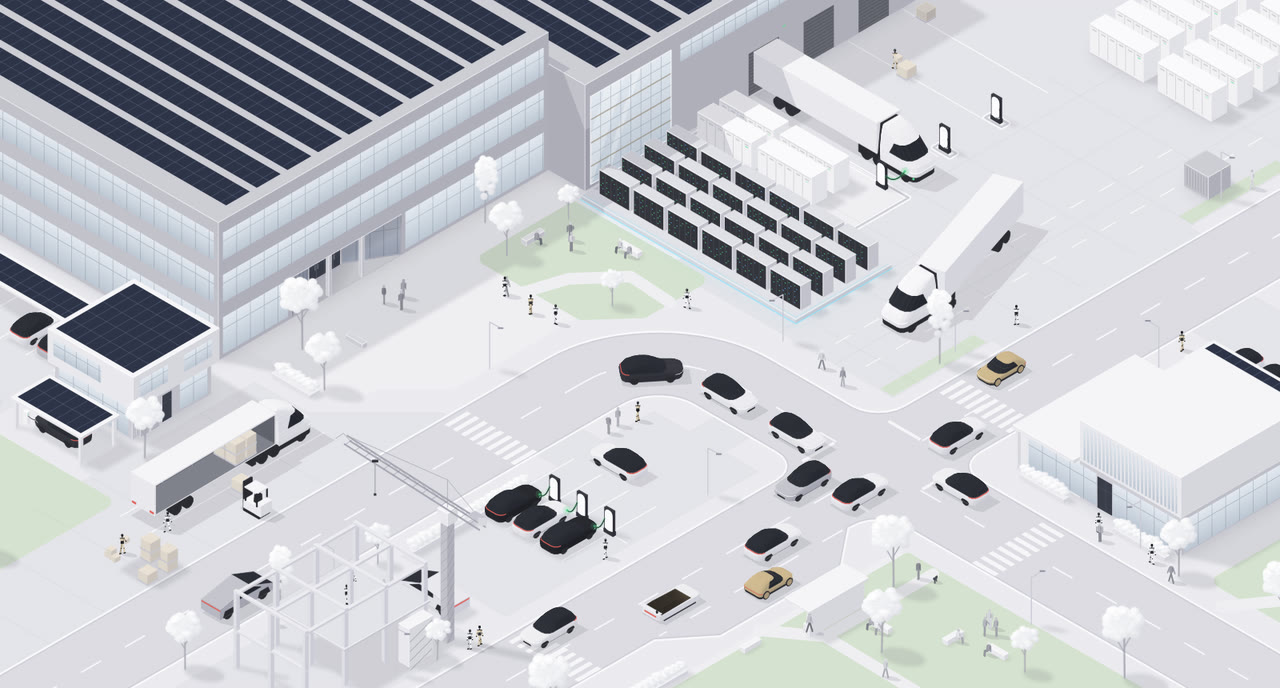
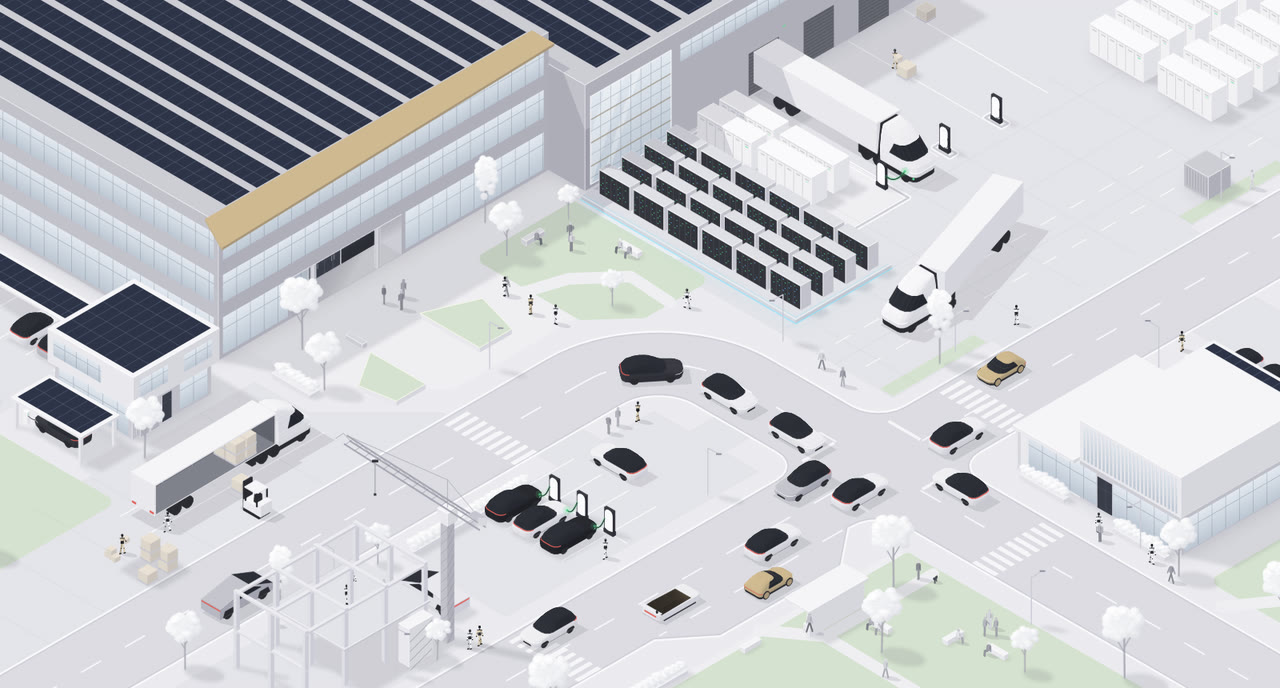
Give the factory's front Giga Berlin's entrance, canopy and plaza
Entrance: the V-shaped glass recess becomes a portico like Giga Berlin's.
Its back wall runs straight across: lit glass on the left, the doors in the
middle where people already come and go, and a dark feature wall on the
right, with the return wall at that end. Its two square pillars move out to
either side of the way in, clear of the door path.

Neon: with `isBranded`, the dark wall carries a neon signature in the
scene's cyan, glowing at night, set low on the wall where it shows under
the floor above. Like the lettering, it lives in world/lettering.ts, and
AGENTS.md, the README and the prop's doc now name it as part of the
exception.

Canopy: a thin bronze roof canopy runs along the top of the facade, over
the roof's edge and out past the front, flaring to a sharp point at the
plaza's corner (world/plaza.ts).

Plaza: two angular planters stand either side of the walk from the door,
with LED strips along their top edges, a fine bright line by day and a warm
glowing one at night. They keep clear of every walkway, the walkers'
offset, the chatting group and the bench. Over 15 simulated minutes no
walker came within 1.1 m of them.

Palette: `featureWall` for the dark wall.

Docs: docs/engine.md describes plaza.ts and the new entrance. README
previews re-recorded.

Checks: typecheck, tests, check:components and the build pass. check:sim:
0 collisions, 0 vehicles touching people.

Claude-Session: https://claude.ai/code/session_012ySDiovrfsgi18gJzxxVM6

diff --git a/src/engine/world/entrance.ts b/src/engine/world/entrance.ts
@@ -1,6 +1,6 @@
-// The factory's main entrance on the plaza: the ground floor steps back in a V under the flush facade above, its
-// glass walls angling in like an arrowhead to a dark door at the tip, and two pillars stand in its mouth, in line with
-// the door's jambs.
+// The factory's main entrance on the plaza, after Giga Berlin's: the ground floor steps back into a portico under the
+// flush facade above, its back wall straight across (lit glass, the doors in the middle, a dark feature wall), and two
+// square pillars stand in its mouth, either side of the way in.
 //
 // The recess is drawn as part of the factory's +x face, clipped to the opening, so it needs no sort item of its own.
 // People come and go at the walkway's door node just in front of the door, which is inside the factory's box: the
@@ -8,10 +8,11 @@
 // hide whoever walks behind them, and clip to the same opening so the floor above covers their tops.
 
 import { sx, sy } from '../core';
-import { box, edgeColor, onFaceX, onWall, type Ctx, type R } from '../draw';
+import { box, edgeColor, onFaceX, onFaceY, type Ctx, type R } from '../draw';
 import { ribbons, windowGlow, type Band } from '../details';
 import type { Palette } from '../palette';
 import { FnItem } from '../statics';
+import { drawNeon, type Branding } from './lettering';
 
 /**
  * The opening in the factory's face at x, from y0 to y1 (lined up with the mullions of the floors above), its height
@@ -36,7 +37,7 @@ function clipToOpening(ctx: Ctx) {
 }
 
 /** The entrance, drawn over the factory's +x face: call it from the factory's decoration. */
-export function drawEntrance(r: R, pal: Palette, edge: string) {
+export function drawEntrance(r: R, pal: Palette, edge: string, branding: Branding) {
   const ctx = r.ctx;
   const { x, y0, y1, h } = ENTRANCE;
   const bx = x - ENTRANCE.depth, d0 = MID - ENTRANCE.door / 2, d1 = MID + ENTRANCE.door / 2;
@@ -59,22 +60,28 @@ export function drawEntrance(r: R, pal: Palette, edge: string) {
     ctx.fillStyle = 'rgba(255, 186, 104, 0.14)';
     ctx.fill();
   }
-  // the two glass walls: the one on the right faces the camera, the left one is seen edge-on and a shade darker
+  // the lobby's back wall, straight across as at Giga Berlin: lit glass on the left, the doors in the middle and a dark
+  // feature wall on the right (with the neon signature when branded), and the return wall at its right end
   const bands: Band[] = [{ top: 0.12, bot: h - 0.12, every: 1.1 }];
-  const pane = (c: Ctx, w: number, dim: number) => {
+  onFaceX(r, bx, d1, y1, h, (c, w) => {
     c.fillStyle = pal.white.right;
     c.fillRect(0, 0, w, h);
     bands[0].spans = [[0.1, w - 0.1]];
     ribbons(r, pal, c, w, bands);
     windowGlow(r, c, w, bands);
-    if (!r.night) {
-      c.fillStyle = pal.faceShadow;
-      for (let i = 0; i < dim; i++) c.fillRect(0, 0, w, h);
-    }
-  };
-  onWall(r, bx, d0, x, y0, h, (c, w) => pane(c, w, 2));
-  onWall(r, x, y1, bx, d1, h, (c, w) => pane(c, w, 3));
-  // the door at the tip: dark glass in two pairs of leaves with pull handles, under a transom
+  });
+  onFaceX(r, bx, y0, d0, h, (c, w) => {
+    c.fillStyle = pal.featureWall;
+    c.fillRect(0, 0, w, h);
+    if (branding.isOn) drawNeon(r, pal, c, w, h);
+  });
+  onFaceY(r, bx, x, y0, h, (c, w) => {
+    c.fillStyle = pal.white.left;
+    c.fillRect(0, 0, w, h);
+    c.fillStyle = pal.faceShadow;
+    c.fillRect(0, 0, w, h);
+  });
+  // the doors: dark glass in two pairs of leaves with pull handles, under a transom
   onFaceX(r, bx, d0, d1, h, (c, w) => {
     c.fillStyle = pal.white.right;
     c.fillRect(0, 0, w, h);
@@ -117,11 +124,11 @@ export function drawEntrance(r: R, pal: Palette, edge: string) {
   ctx.stroke();
 }
 
-/** The two square pillars in the entrance's mouth, carrying the floor above, in line with the door's jambs. */
+/** The two square pillars in the entrance's mouth, carrying the floor above, either side of the way in. */
 export function entrancePillars(pal: Palette, edge: string) {
-  const { x, h, door } = ENTRANCE;
+  const { x, h } = ENTRANCE;
   const s = 0.15;
-  return [MID - door / 2, MID + door / 2].map((y) =>
+  return [MID - 3.5, MID + 3.5].map((y) =>
     new FnItem(x - 2 * s, y - s, 0, x, y + s, h, (r) => {
       r.ctx.save();
       clipToOpening(r.ctx);

diff --git a/src/engine/world/plaza.ts b/src/engine/world/plaza.ts
@@ -1,0 +1,68 @@
+// The factory's front, after Giga Berlin's: a thin bronze roof canopy along the top of the facade,
+// flaring out to a sharp point at the plaza's corner, and two angular planters on the plaza with LED strips along
+// their top edges that glow warm at night. The planters stand clear of every walkway (and the walkers' offset), the
+// chatting group and the bench (walkways.ts, streetLife.ts).
+
+import { C } from '../core';
+import type { R } from '../draw';
+import { MeshBuilder, drawMesh } from '../mesh';
+import type { Palette } from '../palette';
+import { FnItem } from '../statics';
+
+/** the canopy's plan, counter-clockwise (x, y): over the roof's edge, out past the facade (x 26), widening to a point */
+const CANOPY = [[25.2, 37], [27.6, 37], [28.8, 74.4], [25.2, 72.6]];
+const CANOPY_Z = [13.0, 13.25];
+/** the planters' plans, counter-clockwise (x, y), and their height */
+const PLANTERS = [
+  [[33.0, 57.0], [35.0, 52.2], [39.5, 53.5], [39.5, 57.0]],
+  [[34.0, 63.4], [40.0, 63.4], [40.0, 66.6], [36.5, 67.2]],
+];
+const PLANTER_H = 0.45;
+
+const bounds = (pts: number[][]) => [Math.min(...pts.map((p) => p[0])), Math.min(...pts.map((p) => p[1])), Math.max(...pts.map((p) => p[0])), Math.max(...pts.map((p) => p[1]))];
+
+/** A prism over a plan, from z0 to z1: its sides take material slot 0 and its top slot 1. */
+function prism(plan: number[][], z0: number, z1: number) {
+  const m = new MeshBuilder();
+  m.frustum(plan, z0, plan, z1, 0, 1);
+  return m.build();
+}
+
+/** The canopy and the planters, as static items. */
+export function factoryFront(pal: Palette) {
+  const canopy = prism(CANOPY, CANOPY_Z[0], CANOPY_Z[1]);
+  const [cx0, cy0, cx1, cy1] = bounds(CANOPY);
+  const items = [
+    // bronze all over, as at Giga Berlin
+    new FnItem(cx0, cy0, CANOPY_Z[0], cx1, cy1, CANOPY_Z[1], (r) => drawMesh(r, canopy, 0, 0, 0, 1, 0, [pal.gold, pal.gold])).still(),
+  ];
+  for (const plan of PLANTERS) {
+    const mesh = prism(plan, 0, PLANTER_H);
+    const [x0, y0, x1, y1] = bounds(plan);
+    items.push(
+      new FnItem(x0, y0, 0, x1, y1, PLANTER_H, (r) => {
+        drawMesh(r, mesh, 0, 0, 0, 1, 0, [pal.white, pal.lawn]);
+        ledStrip(r, pal, plan, PLANTER_H);
+      }).still(),
+    );
+  }
+  return items;
+}
+
+/** The LED strip round a planter's top edge: a fine bright line by day, a warm glowing one at night. */
+function ledStrip(r: R, pal: Palette, plan: number[][], z: number) {
+  const ctx = r.ctx;
+  ctx.save();
+  ctx.beginPath();
+  plan.forEach(([x, y], i) => (i ? ctx.lineTo((x - y) * C, (x + y) * 0.5 - z) : ctx.moveTo((x - y) * C, (x + y) * 0.5 - z)));
+  ctx.closePath();
+  ctx.lineJoin = 'round';
+  ctx.lineWidth = 0.07;
+  if (r.night) {
+    ctx.strokeStyle = pal.ledWarm;
+    ctx.shadowColor = pal.ledWarm;
+    ctx.shadowBlur = r.scale * 0.45;
+  } else ctx.strokeStyle = 'rgba(255, 252, 240, 0.9)';
+  ctx.stroke();
+  ctx.restore();
+}

diff --git a/src/engine/world/lettering.ts b/src/engine/world/lettering.ts
@@ -1,6 +1,7 @@
-// The opt-in lettering on the factory's front (the `isBranded` prop): the scene otherwise shows no text or brand
-// marks. Five wide-set letters on the panel band over the ribbon window above the main entrance, drawn as simple
-// geometric strokes (no font), dark on the light clay by day and glowing white at night.
+// The opt-in branding on the factory (the `isBranded` prop): the scene otherwise shows no text or brand marks. Five
+// wide-set letters on the panel band over the ribbon window above the main entrance, drawn as simple geometric
+// strokes (no font), dark on the light clay by day and glowing white at night; and a neon signature on the dark wall
+// inside the entrance.
 
 import type { Ctx, R } from '../draw';
 import type { Palette } from '../palette';
@@ -45,5 +46,29 @@ export function drawLettering(r: R, pal: Palette, ctx: Ctx, mid: number, top: nu
     const u0 = mid - span / 2 + i * (W + GAP);
     for (const [u, v, w, h] of glyph) ctx.fillRect(u0 + u, top + v, w, h);
   });
+  ctx.restore();
+}
+
+/**
+ * The neon signature on the dark wall in the entrance, as points (u, v) in shares of the wall's width and height: low
+ * on the wall, where it shows under the floor above.
+ */
+const NEON = [
+  [0.1, 0.8], [0.16, 0.64], [0.2, 0.78], [0.24, 0.84], [0.3, 0.67], [0.34, 0.78], [0.4, 0.69], [0.46, 0.8],
+  [0.52, 0.65], [0.56, 0.78], [0.62, 0.7], [0.7, 0.72], [0.76, 0.64], [0.8, 0.8], [0.86, 0.7], [0.9, 0.67],
+];
+
+/** The neon signature, on a wall of width `w` and height `h` (in the wall's own frame): cyan, glowing at night. */
+export function drawNeon(r: R, pal: Palette, ctx: Ctx, w: number, h: number) {
+  ctx.save();
+  ctx.beginPath();
+  NEON.forEach(([u, v], i) => (i ? ctx.lineTo(u * w, v * h) : ctx.moveTo(u * w, v * h)));
+  ctx.lineCap = 'round';
+  ctx.lineJoin = 'round';
+  ctx.strokeStyle = pal.glow;
+  ctx.lineWidth = 0.09;
+  ctx.shadowColor = pal.glow;
+  ctx.shadowBlur = r.scale * (r.night ? 0.4 : 0.15);
+  ctx.stroke();
   ctx.restore();
 }

diff --git a/src/engine/world/buildings.ts b/src/engine/world/buildings.ts
@@ -12,6 +12,7 @@ import { MESH } from '../traffic/meshes';
 import { charger } from './chargers';
 import { drawEntrance, entrancePillars } from './entrance';
 import { drawLettering, type Branding } from './lettering';
+import { factoryFront } from './plaza';
 import { Crane } from '../activities/crane';
 import { Looper } from '../activities/looper';
 import type { TruckYard } from '../activities/truckYard';
@@ -40,12 +41,12 @@ export function factory(env: Env, edge: string, yard: TruckYard, branding: Brand
       windowsX(r, pal, 26, 36, 72, 13, factoryBandsX);
       windowsY(r, pal, -40, 26, 72, 13, factoryBandsY);
       solarRoof(r, pal, -40, 36, 26, 72, 13, 1.2, 2.6);
-      drawEntrance(r, pal, edge);
+      drawEntrance(r, pal, edge, branding);
       // the opt-in lettering on the panel band over the ribbon window above the entrance (u 8 to 20 on this face)
       if (branding.isOn) onFaceX(r, 26, 36, 72, 13, (ctx) => drawLettering(r, pal, ctx, 14, 3.9));
     }),
   );
-  S.push(...entrancePillars(pal, edge));
+  S.push(...entrancePillars(pal, edge), ...factoryFront(pal));
 
   // dock wing with roll-up doors and a tall atrium window above the compute platform
   const dockDoors = [...yard.docks.map((d) => d.y), yard.bay.y];

diff --git a/src/engine/palette.ts b/src/engine/palette.ts
@@ -43,6 +43,8 @@ export interface Palette {
   dockDoor: string;
   /** the opt-in lettering on the factory's front (world/lettering.ts), and its glow at night */
   sign: string;
+  /** the dark feature wall in the factory's entrance */
+  featureWall: string;
   signGlow: string;
   glow: string;
   led: string;
@@ -116,6 +118,7 @@ export function lightPalette(): Palette {
     solarFrame: '#e9e9ee',
     dockDoor: '#5d5f68',
     sign: '#3a3c43',
+    featureWall: '#2c2e35',
     signGlow: 'rgba(0, 0, 0, 0)',
     glow: '#7fe3ff',
     led: '#59e08f',
@@ -183,6 +186,7 @@ export function darkPalette(): Palette {
     solarFrame: '#3a3c44',
     dockDoor: '#121317',
     sign: '#f2f5ff',
+    featureWall: '#16171b',
     signGlow: 'rgba(205, 225, 255, 0.9)',
     glow: '#6fdcff',
     led: '#59e08f',

diff --git a/src/LivingCity/LivingCity.tsx b/src/LivingCity/LivingCity.tsx
@@ -33,8 +33,8 @@ export interface LivingCityProps {
   /** Keep moving even when the visitor asks for reduced motion (by default the scene then holds still). */
   isReducedMotionIgnored?: boolean;
   /**
-   * Letter the factory's front over its main entrance, as at Giga Berlin. Off by default: the scene otherwise shows
-   * no text or brand marks.
+   * Letter the factory's front over its main entrance and light a neon signature inside it, as at Giga Berlin. Off
+   * by default: the scene otherwise shows no text or brand marks.
    */
   isBranded?: boolean;
   /** Accessible description; the scene is decorative when omitted. */

diff --git a/docs/engine.md b/docs/engine.md
@@ -35,13 +35,14 @@ Every file stays under 300 lines; split by responsibility when one grows past th
 
 - `world/` the layout. `world.ts` builds it all in a fixed order (everything draws from one seeded random stream, so
   moving a call changes the scene): `roads.ts` zones and through traffic, `buildings.ts` the factory (with
-  `lettering.ts`, its opt-in lettering), dock wing, pavilion, home and construction site, `streetLife.ts` trees,
-  lamps, benches, the pocket park and people standing about, `walkways.ts` the walkway graph, `groundPlan.ts` the
-  cached ground layer, `chargers.ts` the yard's chargers (posts and glowing cable in `../charging.ts`),
-  `entrance.ts` the factory's main entrance (a V-shaped recess drawn as part of the face it is cut into, clipped to
-  the opening so it needs no sort item, and the pillars in its mouth), `outskirts.ts` what lies beyond the classic
-  frame for wide views (factory wing, staff car park, second compute platform, Megapack field, charging hub, staff
-  park).
+  `plaza.ts`, its Giga Berlin-style front: the bronze roof canopy and the plaza's LED-edged planters, and
+  `lettering.ts`, its opt-in lettering and neon), dock wing, pavilion, home and construction site, `streetLife.ts`
+  trees, lamps, benches, the pocket park and people standing about, `walkways.ts` the walkway graph, `groundPlan.ts`
+  the cached ground layer, `chargers.ts` the yard's chargers (posts and glowing cable in `../charging.ts`),
+  `entrance.ts` the factory's main entrance (a portico with a straight back wall, drawn as part of the face it is
+  cut into, clipped to the opening so it needs no sort item, and the pillars in its mouth), `outskirts.ts` what lies
+  beyond the classic frame for wide views (factory wing, staff car park, second compute platform, Megapack field,
+  charging hub, staff park).
 - `blocks.ts` builders used in both: `rackPlatform` (server racks with the glowing edge) and `megapacks`;
   `details.ts` windows, glass, solar roofs.
 - `activities/` the scripted scenes, one per file (truck yard, loading bay, charging lot, robotaxi stop, crane, dog

diff --git a/AGENTS.md b/AGENTS.md
@@ -26,8 +26,9 @@ A self-running isometric factory town for React: one `<canvas>`, no text, no dep
   `Name/Name.test.tsx`.
 - No `useEffect` / `useLayoutEffect` anywhere (`check:components` fails on them). Use a callback ref, an event
   handler or `useSyncExternalStore`.
-- The scene shows no text, logos or brand marks. The one exception is the factory's lettering behind the opt-in
-  `isBranded` prop (off by default; the demo site turns it on), all of it in `src/engine/world/lettering.ts`.
+- The scene shows no text, logos or brand marks. The one exception is the factory's lettering and the neon signature
+  in its entrance, behind the opt-in `isBranded` prop (off by default; the demo site turns it on), all of it in
+  `src/engine/world/lettering.ts`.
 - Commits are authored by Alberto (the repo's git config) with a `Co-Authored-By:` trailer for the AI agent that
   worked on it. Subject line in the imperative, then a body that says what changed and why, area by area.
 - Push to `main` only when asked; it redeploys the website.

diff --git a/README.md b/README.md
@@ -129,7 +129,7 @@ it a height, or put it in a sized box, and it fills that instead:
 | `isPaused` | `false` | Freeze on the current frame |
 | `maxDpr` | `2` | Cap on the device pixel ratio. Lower it to trade sharpness for speed |
 | `isReducedMotionIgnored` | `false` | Keep moving even when the visitor has asked for reduced motion (by default the scene then holds still) |
-| `isBranded` | `false` | Letter the factory's front over its main entrance, as at Giga Berlin. Off by default: the scene otherwise shows no text or brand marks |
+| `isBranded` | `false` | Letter the factory's front over its main entrance and light a neon signature inside it, as at Giga Berlin. Off by default: the scene otherwise shows no text or brand marks |
 | `label` | none | Accessible description. Without it the scene is treated as decorative (`aria-hidden`) |
 | `className`, `style` | none | Applied to the wrapper `div` |
 
